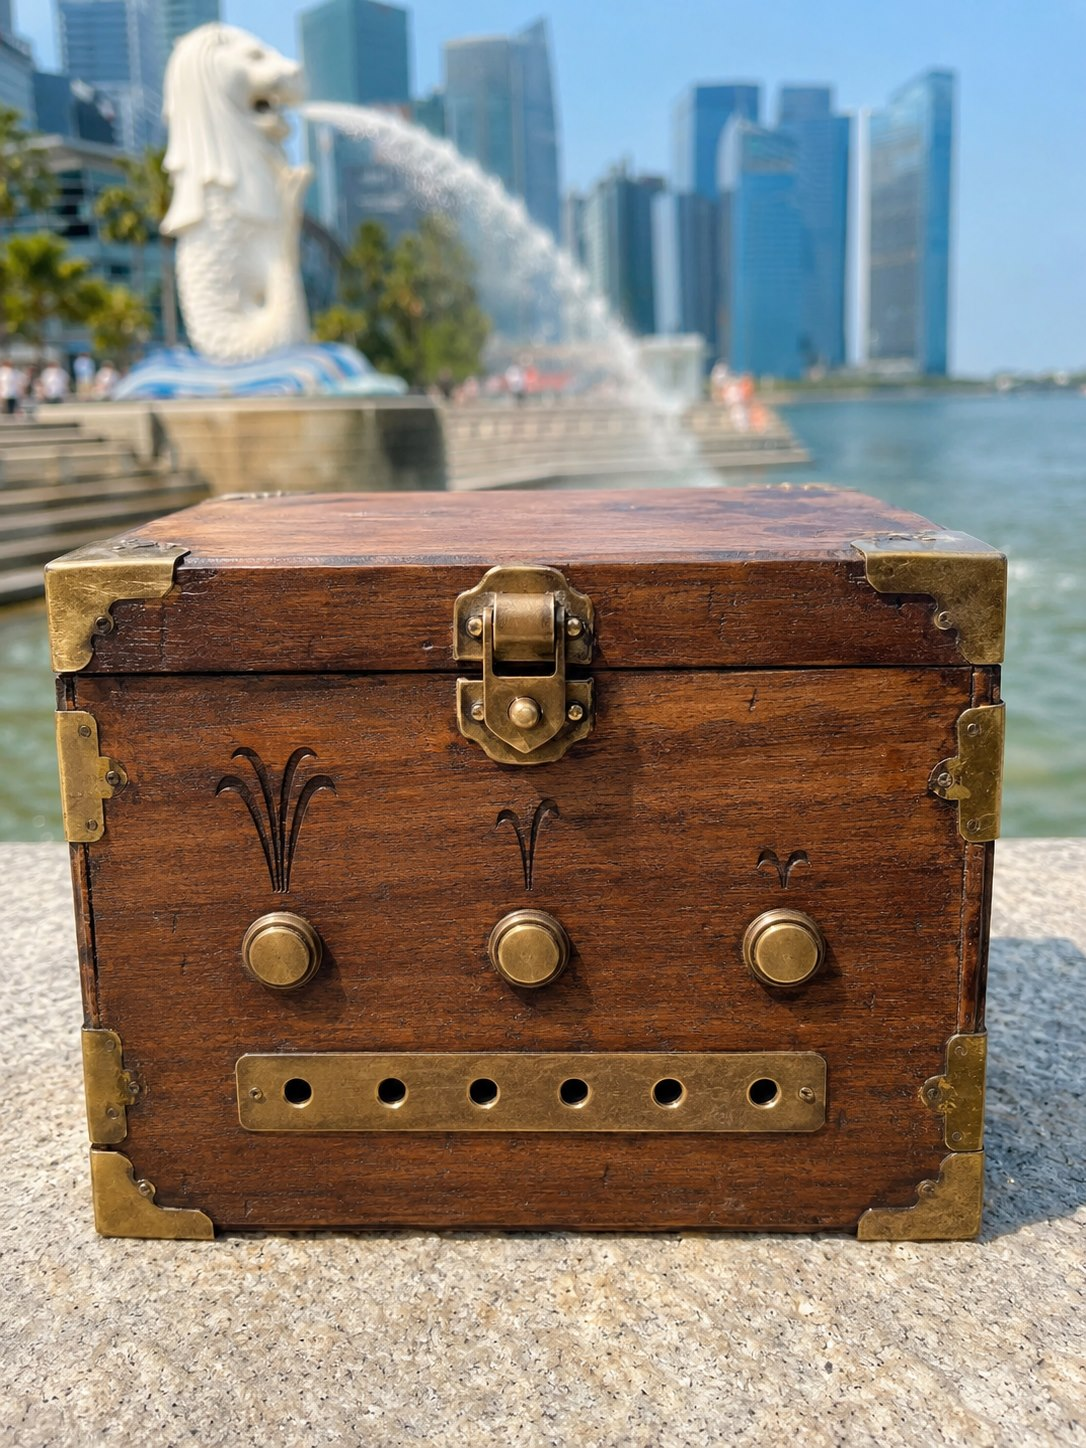
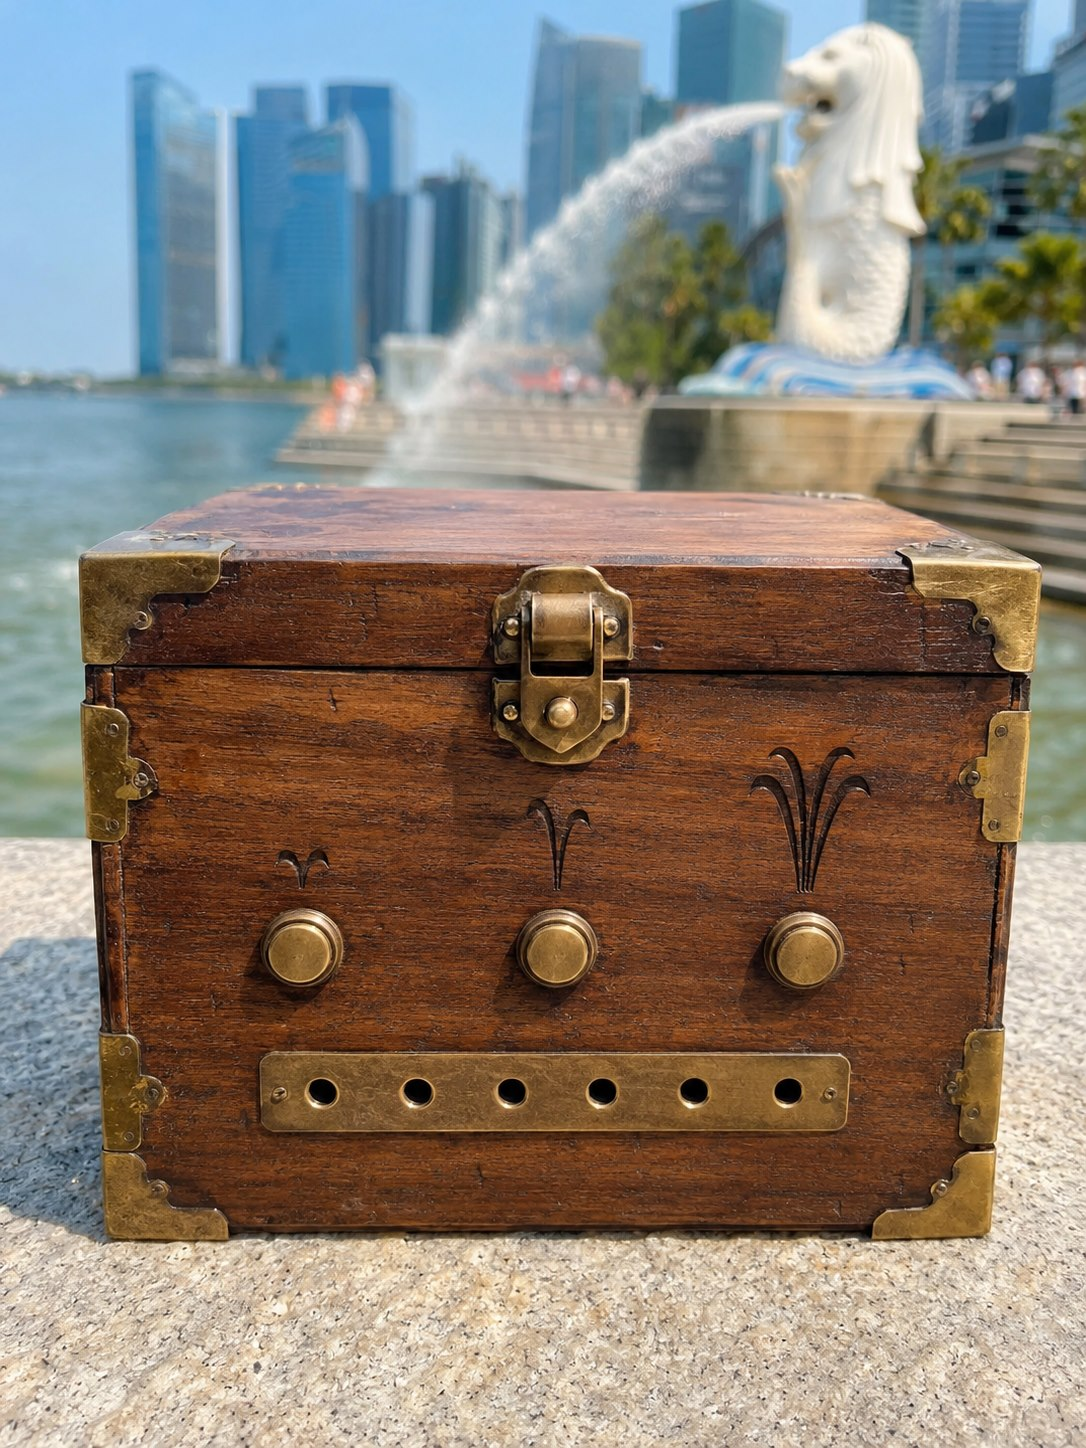
방탈출: 자판기 이음새 재합성+동전컷 정합, 머라이언 상자 원본 복귀+곶 이동

diff --git a/index.html b/index.html
@@ -573,7 +573,7 @@ const MAPS = {
           cells:[{x:39.7,y:33.0},{x:49.7,y:33.0},{x:59.9,y:33.0},
                  {x:39.7,y:43.3},{x:49.7,y:43.3},{x:59.9,y:43.3},
                  {x:39.7,y:53.9},{x:49.7,y:53.9},{x:59.9,y:53.9}],
-          cellW:6.25, cellH:4.67, zoneW:9.2, zoneH:8,
+          cellW:6.25, cellH:2.83, zoneW:9.2, zoneH:8,
           success:"덜컹! 잔돈 배출구에서 뭔가 떨어졌다.", setFlag:"dt_vend",
           prize:{ img:"img/closeup/downtown_vend_coin.jpg", badge:"🪙", label:"잔돈 배출구",
             caption:"잔돈 배출구에 금색 동전이 반짝인다…!",
@@ -1113,20 +1113,21 @@ const MAPS = {
         caption:"🗝 열쇠가 등에 꽂혀 있다.",
         action:{type:"clue"} }},
       // 분수 자물쇠(임시 5, frag4) 삭제 — 북쑥 2026-08-13
-      // ★물가 나무 상자 — 물줄기 문양 버튼(강·중·약) 6타 [강약중강중약] → 유니버설 입장 티켓 (북쑥 2026-08-13)
-      //   이미지는 북쑥 AI 생성본을 좌우반전해서 사용(머라이언이 왼쪽에 오게). 좌표는 격자 실측.
-      { x:50,y:80, w:24,h:15, label:"물가의 나무 상자", closeup:{
+      // ★물가 나무 상자 — 물줄기 문양 버튼 6타 [강약중강중약] → 유니버설 입장 티켓 (북쑥 2026-08-13)
+      //   2026-08-14 원본(비반전)으로 복귀 + 위치를 사자상 앞 '곶'(전망 데크)으로 — 곶에서 보면 원래 방향이 맞음(북쑥).
+      //   버튼 왼→오 = 약·중·강 (원본). 정답은 여전히 강약중강중약(라벨 기준이라 로직 무변).
+      { x:48,y:63, w:24,h:10, label:"물가의 나무 상자", closeup:{
         img:"img/closeup/merlion_box.jpg", badge:"📦",
         caption:"📦 물가 돌턱에 놓인 나무 상자.\n물줄기 문양 버튼 세 개와 작은 구멍 여섯 개가 있다.",
         action:{type:"seq",
           answer:["s","w","m","s","m","w"],   // 물줄기 순서 그대로 = 강 약 중 강 중 약
           zones:[
-            {k:"s", x:26,y:62, w:17,h:16, label:"센 물줄기 버튼"},
+            {k:"w", x:26.5,y:62, w:16,h:16, label:"약한 물줄기 버튼"},
             {k:"m", x:50,y:62, w:17,h:16, label:"중간 물줄기 버튼"},
-            {k:"w", x:73.5,y:62, w:16,h:16, label:"약한 물줄기 버튼"},
+            {k:"s", x:74,y:62, w:17,h:16, label:"센 물줄기 버튼"},
           ],
-          lamps:[{x:27.4,y:73.2},{x:36.3,y:73.2},{x:45.3,y:73.2},
-                 {x:54.1,y:73.2},{x:63.0,y:73.2},{x:71.9,y:73.2}],
+          lamps:[{x:28.1,y:73.2},{x:37.0,y:73.2},{x:45.9,y:73.2},
+                 {x:54.7,y:73.2},{x:63.7,y:73.2},{x:72.6,y:73.2}],
           lampW:5.5, lampH:4.1,
           success:"딸깍! 걸쇠가 풀리며 뚜껑이 열렸다.", setFlag:"ml_box",
           prize:{ img:"img/closeup/merlion_box_open.jpg", badge:"🎫", label:"열린 상자",
